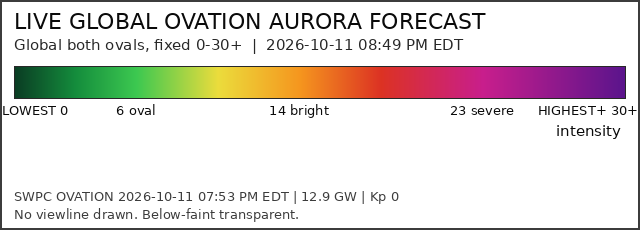
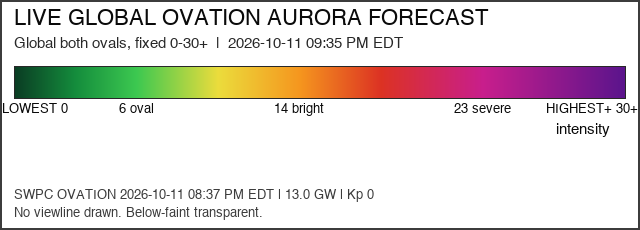
Aurora global: intensity value labels off by default (--show-aur-labels to re-enable)

diff --git a/scripts/build_aurora_global.py b/scripts/build_aurora_global.py
@@ -51,6 +51,12 @@ GW, GH = CONFIG["canvas_width"], CONFIG["canvas_height"]
 GBOUNDS = {"lon_min": CONFIG["lon_min"], "lon_max": CONFIG["lon_max"],
            "lat_min": CONFIG["lat_min"], "lat_max": CONFIG["lat_max"]}
 
+# Intensity value labels (white-halo numbers painted into the raster).
+# Disabled by default: gradient + viewline remain, numeric labels are
+# skipped. paint_aurora_labels() is kept intact so this can be re-enabled
+# via CLI (--show-aur-labels) without restoring deleted code.
+SHOW_AUR_LABELS = False
+
 
 def resample_global(lons, lats, vals):
     """Bin OVATION obs to the 1-degree grid, then bilinear to 0.1 deg."""
@@ -84,8 +90,13 @@ def main():
         ap = argparse.ArgumentParser()
         ap.add_argument("--preview-dir", default=None)
         ap.add_argument("--font-size", type=int, default=14)
+        ap.add_argument("--show-aur-labels", action="store_true",
+                        default=SHOW_AUR_LABELS,
+                        help="re-enable intensity value labels "
+                             "(default: disabled)")
         args = ap.parse_args()
-        return run(preview_dir=args.preview_dir, font_size=args.font_size)
+        return run(preview_dir=args.preview_dir, font_size=args.font_size,
+                   show_aur_labels=args.show_aur_labels)
     except SystemExit as e:
         raise
     except Exception:
@@ -93,7 +104,8 @@ def main():
         return 1
 
 
-def run(preview_dir=None, font_size=14):
+def run(preview_dir=None, font_size=14,
+        show_aur_labels=SHOW_AUR_LABELS):
     try:
         obs, fcst, lons, lats, vals, hemi, kpf, kp_now = fetch_ovation()
     except Exception as e:
@@ -111,7 +123,7 @@ def run(preview_dir=None, font_size=14):
         return 0
     try:
         return _build(obs, fcst, lons, lats, vals, hemi, kpf, kp_now,
-                      source_id, preview_dir, font_size)
+                      source_id, preview_dir, font_size, show_aur_labels)
     except Exception:
         traceback.print_exc()
         print(f"[{PRODUCT}] VALIDATION FAILED. Keeping previous.")
@@ -119,7 +131,8 @@ def run(preview_dir=None, font_size=14):
 
 
 def _build(obs, fcst, lons, lats, vals, hemi, kpf, kp_now, source_id,
-           preview_dir=None, font_size=14):
+           preview_dir=None, font_size=14,
+           show_aur_labels=SHOW_AUR_LABELS):
     from geospatial_utils import iso_to_det
     stage = stage_dir(PRODUCT)
     stage_prod = os.path.join(stage, "site", PRODUCT)
@@ -179,9 +192,14 @@ def _build(obs, fcst, lons, lats, vals, hemi, kpf, kp_now, source_id,
     # Intensity numbers at global scale: 14 px + wide separation so they
     # read as numbers (7 px on a 3600 px canvas renders as specks), polar
     # rows excluded (pole-pinch smear).
-    rgba, n_labels = paint_aurora_labels(rgba, paint, font_size=font_size,
-                                         extra_sep=90, bounds=GBOUNDS,
-                                         max_abs_lat=80.0)
+    if show_aur_labels:
+        rgba, n_labels = paint_aurora_labels(rgba, paint, font_size=font_size,
+                                             extra_sep=90, bounds=GBOUNDS,
+                                             max_abs_lat=80.0)
+    else:
+        # Intensity value display DISABLED: keep gradient + viewline,
+        # skip numeric labels (painter kept for re-enable).
+        n_labels = 0
     print(f"[{PRODUCT}] labels={n_labels}")
     if preview_dir is not None:
         os.makedirs(preview_dir, exist_ok=True)
@@ -207,11 +225,10 @@ def _build(obs, fcst, lons, lats, vals, hemi, kpf, kp_now, source_id,
         f"<b>LOWEST 0</b> (transparent) &rarr; <b>6 bright green</b> "
         f"(oval overhead) &rarr; <b>14 orange</b> &rarr; <b>23 magenta</b> "
         f"(severe) &rarr; <b>HIGHEST+ 30+</b> (violet extreme). Same "
-        f"intensity always shows the same color. White halo numbers are "
-        f"actual intensity at that spot. "
-        f"Isolated faint cells paint only where connected to genuinely "
-        f"active areas, so model background noise never renders as "
-        f"aurora.")
+         f"intensity always shows the same color. "
+         f"Isolated faint cells paint only where connected to genuinely "
+         f"active areas, so model background noise never renders as "
+         f"aurora.")
     meta = base_metadata(
         PRODUCT, CONFIG["title"], CONFIG["freshness_label"],
         CONFIG["source_name"], CONFIG["source_url"], CONFIG["variable"],
@@ -238,7 +255,7 @@ def _build(obs, fcst, lons, lats, vals, hemi, kpf, kp_now, source_id,
     meta["legend_scale_html"] = scale_html
     meta["source_id"] = source_id
     meta["source_version"] = source_token(
-        f"{source_id}-r{RENDER_VERSION}-aurglobal-tx5")
+        f"{source_id}-r{RENDER_VERSION}-aurglobal-tx6")
     meta["viewline_threshold"] = CONFIG["viewline_threshold"]
     meta["viewline_farthest_lat"] = None
     meta["stats"] = {"valid_cells": int(np.isfinite(paint).sum()),
